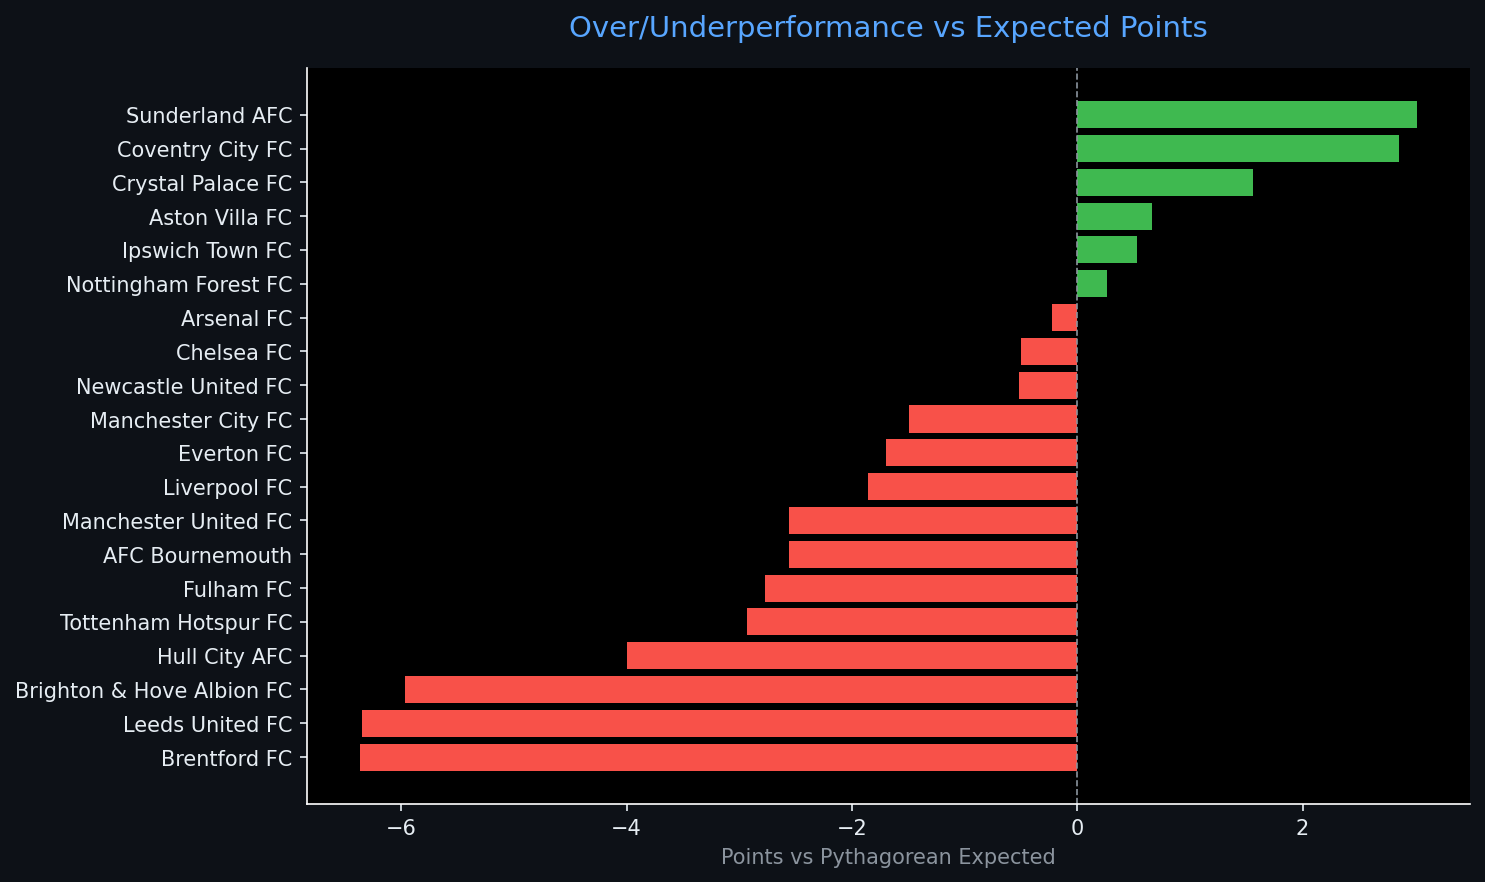
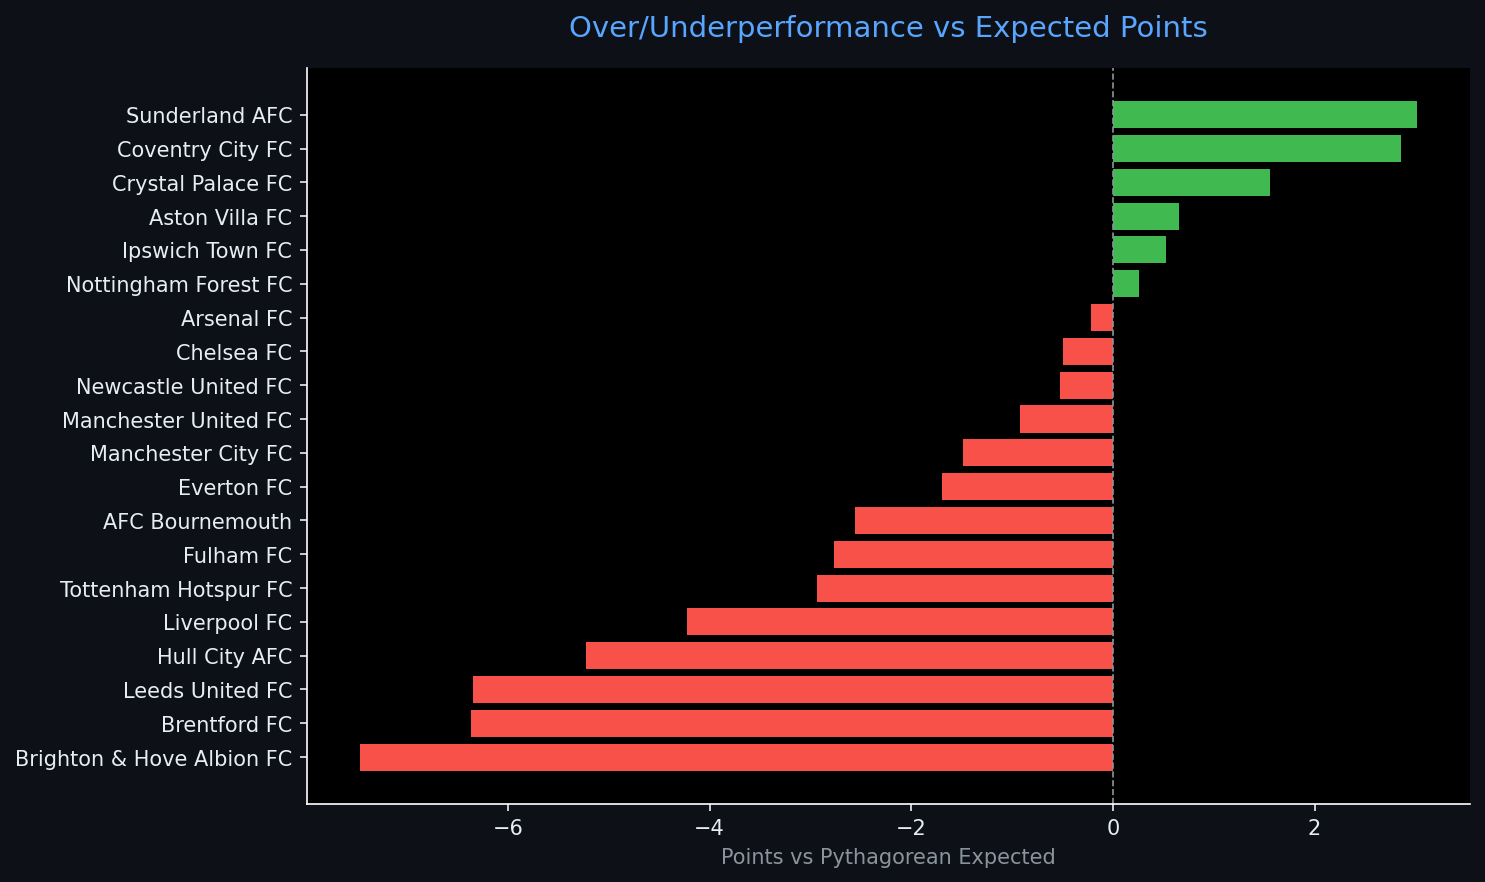
Automated ETL data update: 2026-11-22 20:31

diff --git a/reports/pipeline_report.html b/reports/pipeline_report.html
@@ -4,7 +4,7 @@
 <head>
     <meta charset="UTF-8">
     <meta name="viewport" content="width=device-width, initial-scale=1.0">
-    <title>Sports Data Pipeline Report — 2026-11-22 13:52</title>
+    <title>Sports Data Pipeline Report — 2026-11-22 20:31</title>
     <style>
         body { font-family: 'Segoe UI', sans-serif; background: #0d1117; color: #e6edf3; margin: 0; padding: 2rem; }
         h1   { color: #58a6ff; border-bottom: 1px solid #30363d; padding-bottom: 0.5rem; }
@@ -20,7 +20,7 @@
 </head>
 <body>
     <h1>⚽ Sports Data Pipeline — Automated Report</h1>
-    <p class="meta">Generated: 2026-11-22 13:52 UTC &nbsp;|&nbsp; Sport: <strong>football</strong> &nbsp;|&nbsp; Rows: <strong>20</strong></p>
+    <p class="meta">Generated: 2026-11-22 20:31 UTC &nbsp;|&nbsp; Sport: <strong>football</strong> &nbsp;|&nbsp; Rows: <strong>20</strong></p>
     <span class="badge">Pipeline v1.0.0</span>
     <h2>📊 Data Table</h2>
     <table class="dataframe data-table">
@@ -60,16 +60,16 @@
     <tr>
       <td>2</td>
       <td>Brighton &amp; Hove Albion FC</td>
-      <td>10</td>
+      <td>11</td>
       <td>22</td>
       <td>7</td>
       <td>1</td>
-      <td>2</td>
+      <td>3</td>
       <td>26</td>
-      <td>7</td>
-      <td>0.700</td>
-      <td>2.200</td>
-      <td>0.932</td>
+      <td>9</td>
+      <td>0.636</td>
+      <td>2.000</td>
+      <td>0.893</td>
       <td>NaN</td>
     </tr>
     <tr>
@@ -89,6 +89,21 @@
     </tr>
     <tr>
       <td>4</td>
+      <td>Liverpool FC</td>
+      <td>11</td>
+      <td>21</td>
+      <td>6</td>
+      <td>3</td>
+      <td>2</td>
+      <td>18</td>
+      <td>10</td>
+      <td>0.545</td>
+      <td>1.909</td>
+      <td>0.764</td>
+      <td>NaN</td>
+    </tr>
+    <tr>
+      <td>5</td>
       <td>AFC Bournemouth</td>
       <td>11</td>
       <td>18</td>
@@ -100,21 +115,6 @@
       <td>0.455</td>
       <td>1.636</td>
       <td>0.623</td>
-      <td>NaN</td>
-    </tr>
-    <tr>
-      <td>5</td>
-      <td>Liverpool FC</td>
-      <td>10</td>
-      <td>18</td>
-      <td>5</td>
-      <td>3</td>
-      <td>2</td>
-      <td>14</td>
-      <td>10</td>
-      <td>0.500</td>
-      <td>1.800</td>
-      <td>0.662</td>
       <td>NaN</td>
     </tr>
     <tr>
@@ -194,6 +194,21 @@
     </tr>
     <tr>
       <td>11</td>
+      <td>Hull City AFC</td>
+      <td>11</td>
+      <td>14</td>
+      <td>3</td>
+      <td>5</td>
+      <td>3</td>
+      <td>13</td>
+      <td>11</td>
+      <td>0.273</td>
+      <td>1.273</td>
+      <td>0.583</td>
+      <td>NaN</td>
+    </tr>
+    <tr>
+      <td>12</td>
       <td>Aston Villa FC</td>
       <td>11</td>
       <td>14</td>
@@ -208,7 +223,7 @@
       <td>NaN</td>
     </tr>
     <tr>
-      <td>12</td>
+      <td>13</td>
       <td>Newcastle United FC</td>
       <td>11</td>
       <td>13</td>
@@ -223,7 +238,7 @@
       <td>NaN</td>
     </tr>
     <tr>
-      <td>13</td>
+      <td>14</td>
       <td>Coventry City FC</td>
       <td>11</td>
       <td>12</td>
@@ -235,21 +250,6 @@
       <td>0.364</td>
       <td>1.091</td>
       <td>0.277</td>
-      <td>NaN</td>
-    </tr>
-    <tr>
-      <td>14</td>
-      <td>Hull City AFC</td>
-      <td>10</td>
-      <td>11</td>
-      <td>2</td>
-      <td>5</td>
-      <td>3</td>
-      <td>11</td>
-      <td>11</td>
-      <td>0.200</td>
-      <td>1.100</td>
-      <td>0.500</td>
       <td>NaN</td>
     </tr>
     <tr>
@@ -315,16 +315,16 @@
     <tr>
       <td>19</td>
       <td>Manchester United FC</td>
-      <td>10</td>
+      <td>11</td>
       <td>8</td>
       <td>1</td>
       <td>5</td>
-      <td>4</td>
+      <td>5</td>
       <td>14</td>
-      <td>19</td>
-      <td>0.100</td>
-      <td>0.800</td>
-      <td>0.352</td>
+      <td>23</td>
+      <td>0.091</td>
+      <td>0.727</td>
+      <td>0.270</td>
       <td>NaN</td>
     </tr>
     <tr>
@@ -360,9 +360,9 @@
         
         <tr><td>Total Columns</td><td>29</td></tr>
         
-        <tr><td>Null Values</td><td>89</td></tr>
+        <tr><td>Null Values</td><td>85</td></tr>
         
-        <tr><td>Run Timestamp (UTC)</td><td>2026-11-22T13:52:51.426460</td></tr>
+        <tr><td>Run Timestamp (UTC)</td><td>2026-11-22T20:31:45.556858</td></tr>
         
         <tr><td>ML Features Ready</td><td>False</td></tr>
         
